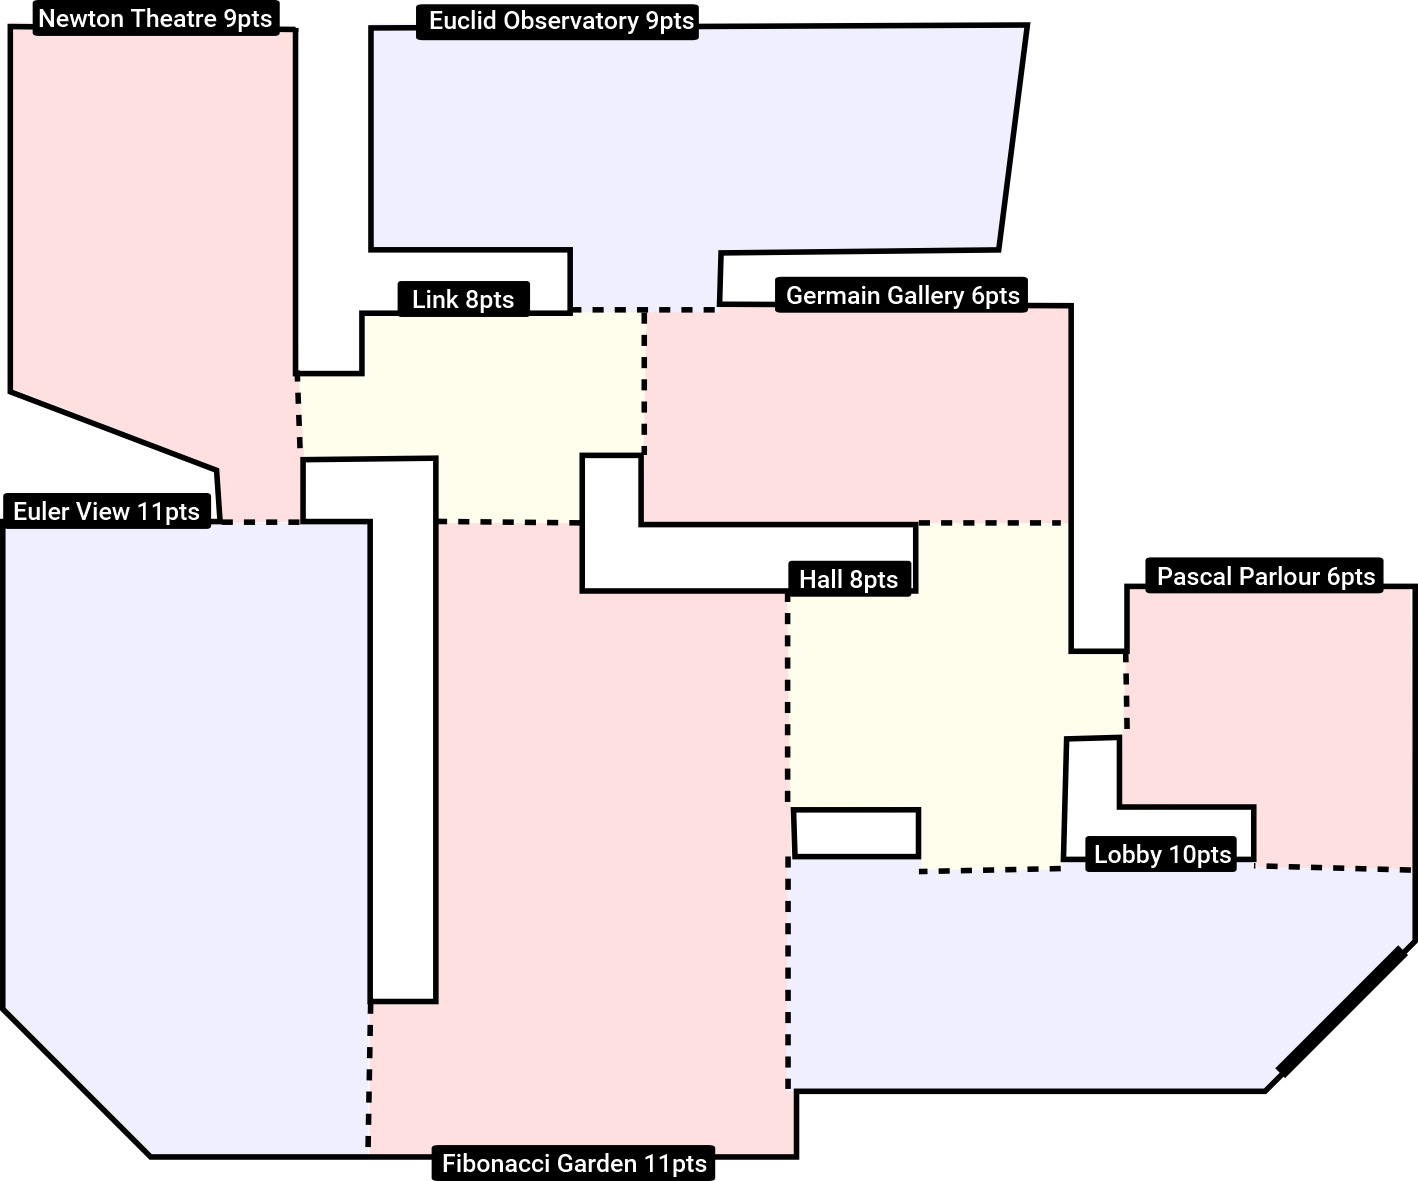
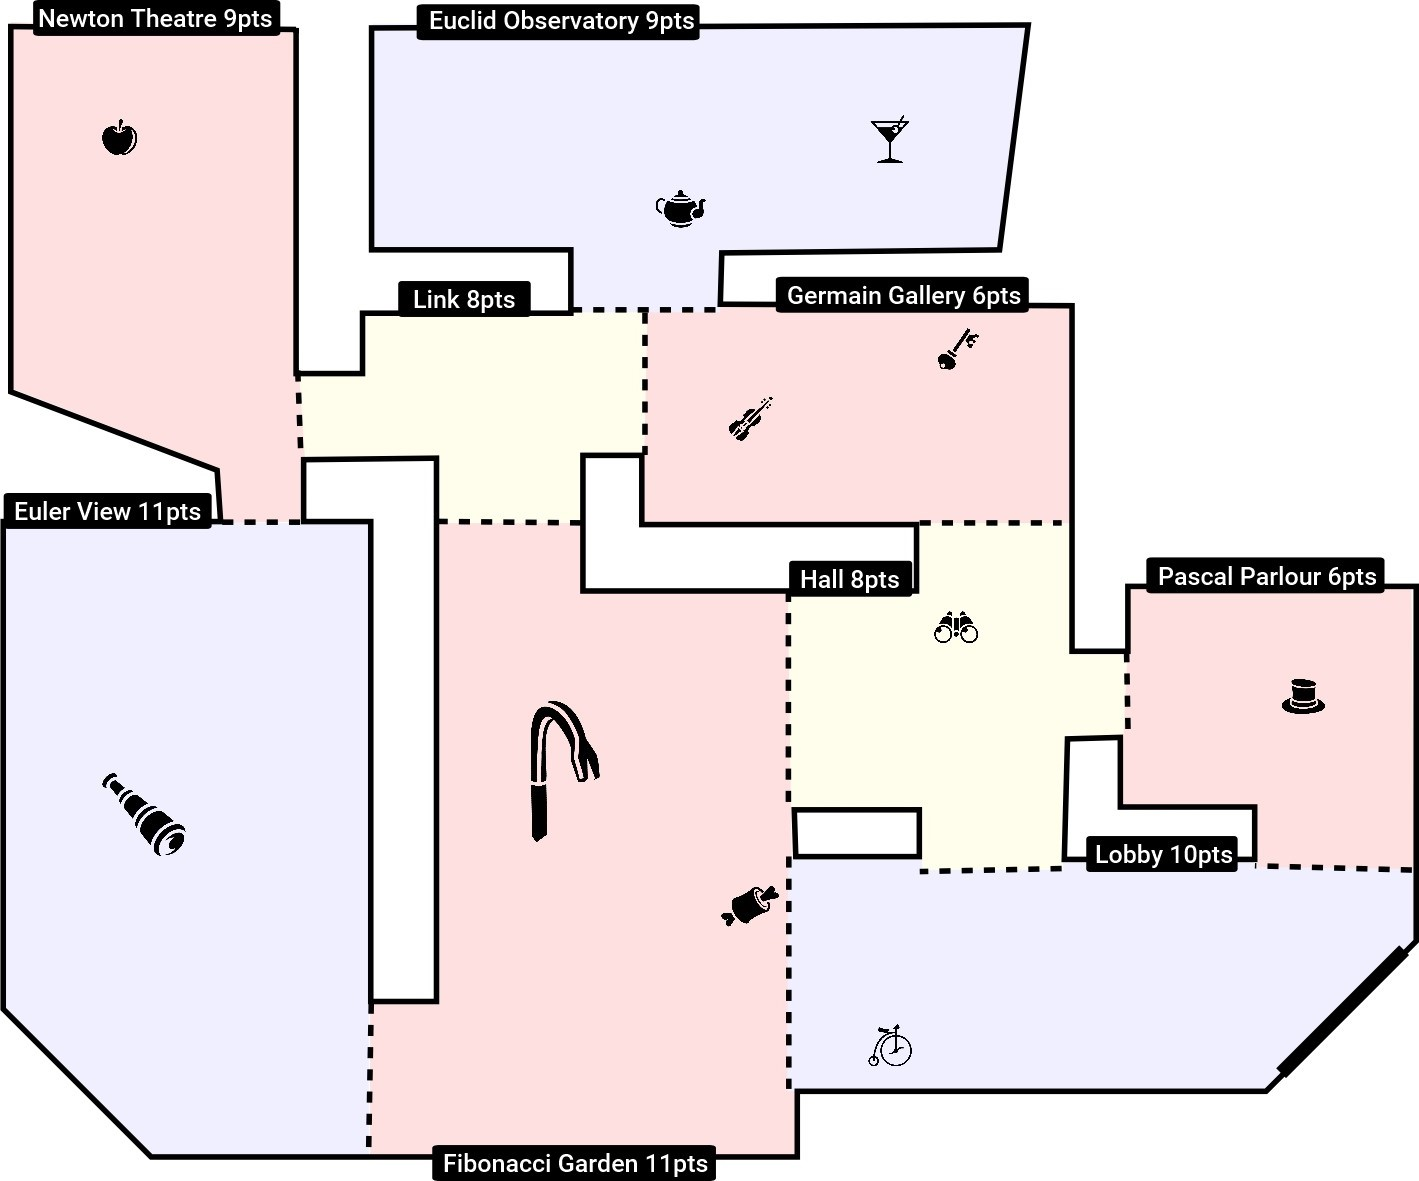
Begin building ability section.

diff --git a/index.html b/index.html
@@ -121,6 +121,56 @@
             </div>
 
             <!-- Space to activate abilities. -->
+            <div class="row">
+                <div class="col">
+                    <p>Spend 2 dice with the same value to immediately move up to 3 dice from the used pile to the reserve pile. Also, gain 3 points at the end of the game.</p>
+                    <div class="row">
+                        <img src="assets/images/telescope.jpg" class="evidence-image">
+                    </div>
+                    <div class="row">
+                        <img src="assets/images/crowbar.jpg" class="evidence-image">
+                    </div>
+                </div>
+                <div class="col">
+                    <p>Spend 2 dice with consecutive values to gain 2 wild shapes. Use at any time.</p>
+                    <div class="row">
+                        <img src="assets/images/violin.jpg" class="evidence-image">
+                    </div>
+                    <div class="row">
+                        <img src="assets/images/meat.jpg" class="evidence-image">
+                    </div>
+                    <div class="row">
+                        <img src="assets/images/bike.jpg" class="evidence-image">
+                    </div>
+                </div>
+                <div class="col">
+                    <p>Spend 2 dice summing the indivated value to gain 4 opportunities to re-roll 1 or 2 dice, before using them.</p>
+                    <div class="row">
+                        <img src="assets/images/martini.jpg" class="evidence-image">
+                    </div>
+                    <div class="row">
+                        <img src="assets/images/tophat.jpg" class="evidence-image">
+                    </div>
+                </div>
+                <div class="col">
+                    <p>Spend 2 dice summing the indivated value to gain two shapes that can be placed, once each, at any time.</p>
+                    <div class="row">
+                        <img src="assets/images/key.jpg" class="evidence-image">
+                    </div>
+                    <div class="row">
+                        <img src="assets/images/apple.jpg" class="evidence-image">
+                    </div>
+                </div>
+                <div class="col">
+                    <p>Spend 2 dice summing the indivated value to gain 7 points at the end of the game.</p>
+                    <div class="row">
+                        <img src="assets/images/teapot.jpg" class="evidence-image">
+                    </div>
+                    <div class="row">
+                        <img src="assets/images/binoc.jpg" class="evidence-image">
+                    </div>
+                </div>
+            </div>
             <!-- </section> -->
 
             <section id="how-to-play">

diff --git a/assets/css/style.css b/assets/css/style.css
@@ -21,6 +21,12 @@ nav {
     z-index: -1;
 }
 
+.evidence-image {
+    width: 40px;
+    height: 40px;
+    padding: 0px;
+}
+
 /* Establish style for all die and boxes. */
 .space {
     height: 35px;
@@ -56,6 +62,7 @@ nav {
 .filled {
     background-color: grey;
     border-color: grey;
+    opacity: 0.3;
 }
 
 .clear {
